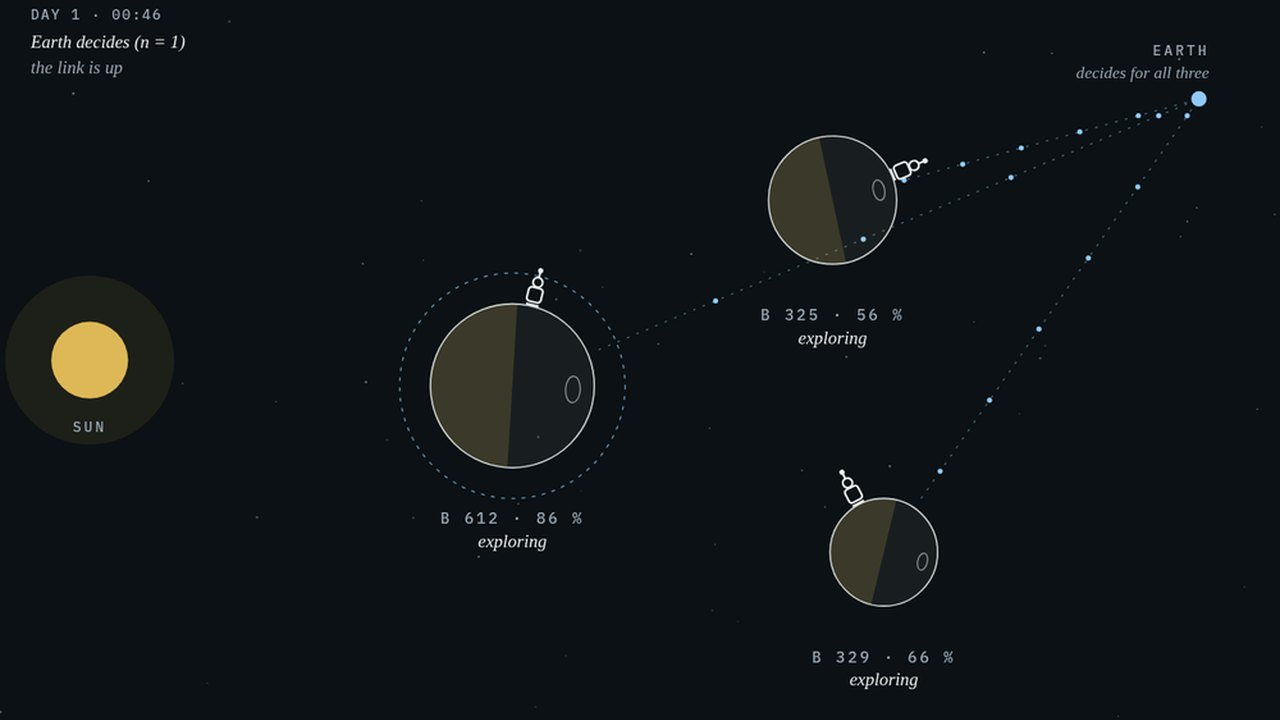
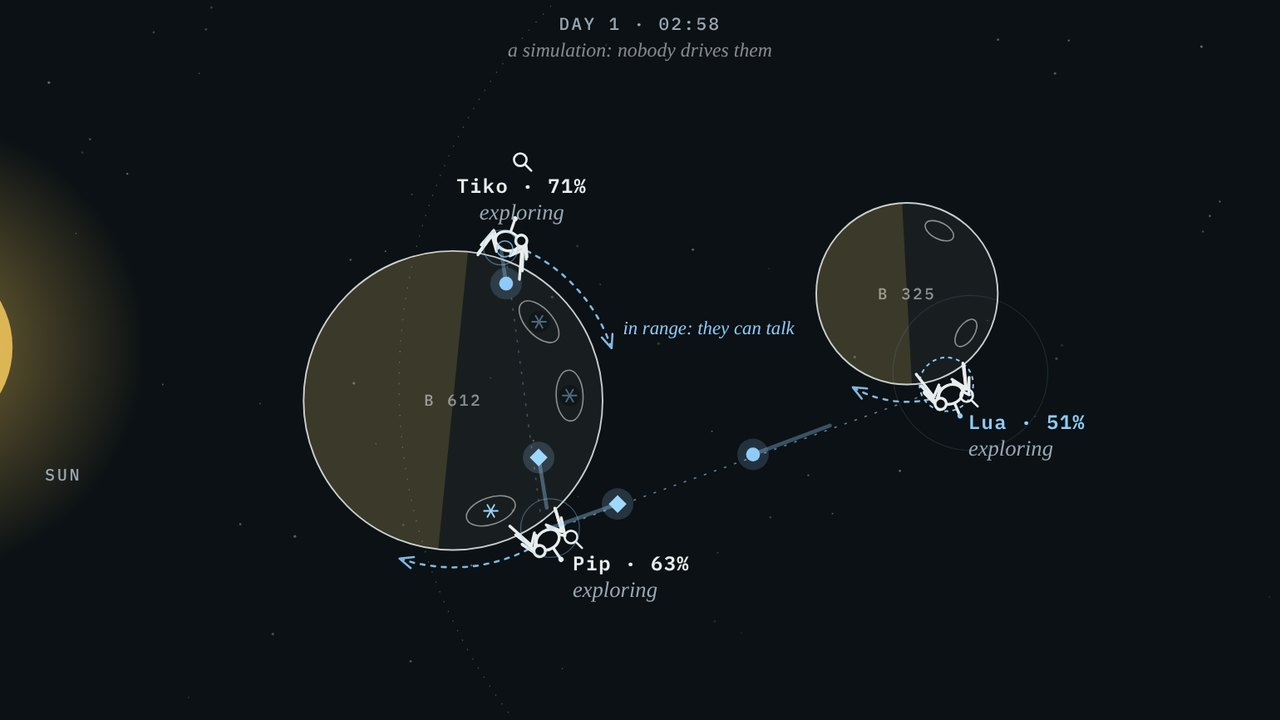
robots: Space card for the v3 demo (new screenshot, desc, acceptTip code line); index.json desc

diff --git a/docs/robots/index.html b/docs/robots/index.html
@@ -141,10 +141,10 @@ me("robots[canProceed == true].name")</code>
           <span class="item-tag">Live · this.me@4.1.0</span>
         </a>
         <a class="item" href="https://neurons-me.github.io/.me/Demos/Robots/Space/" style="grid-column: 1 / -1;">
-          <img class="item-media" src="https://neurons-me.github.io/robots/assets/ROBOTS-SPACE.jpg" width="1280" height="720" alt="Three small robots on three small asteroids, the Sun on the left, Earth far away" />
+          <img class="item-media" src="https://neurons-me.github.io/robots/assets/ROBOTS-SPACE.jpg" width="1280" height="720" alt="Two small asteroids and three spider robots in the dark, the Sun on the left, a message travelling between the rocks" />
           <div class="item-title">Autonomous Robotics in Space</div>
-          <div class="item-desc">A short story: cut the link to Earth, and each robot's own kernel keeps deciding.</div>
-          <code class="item-code code-space">me.robots["[i]"]["="]("mustReturn", "battery &lt; reserveNeeded")</code>
+          <div class="item-desc">A short story: two asteroids, three spider robots, three kernels. A limited radio, and one patch of ice that means something different to each of them.</div>
+          <code class="item-code code-space">me.robots["[i]"]["="]("acceptTip", "inboxAge &lt;= maxAge &amp;&amp; inboxRock == myRock &amp;&amp; !tipFresh")</code>
           <span class="item-tag">Live · Story · this.me@4.1.0</span>
         </a>
       </div>
